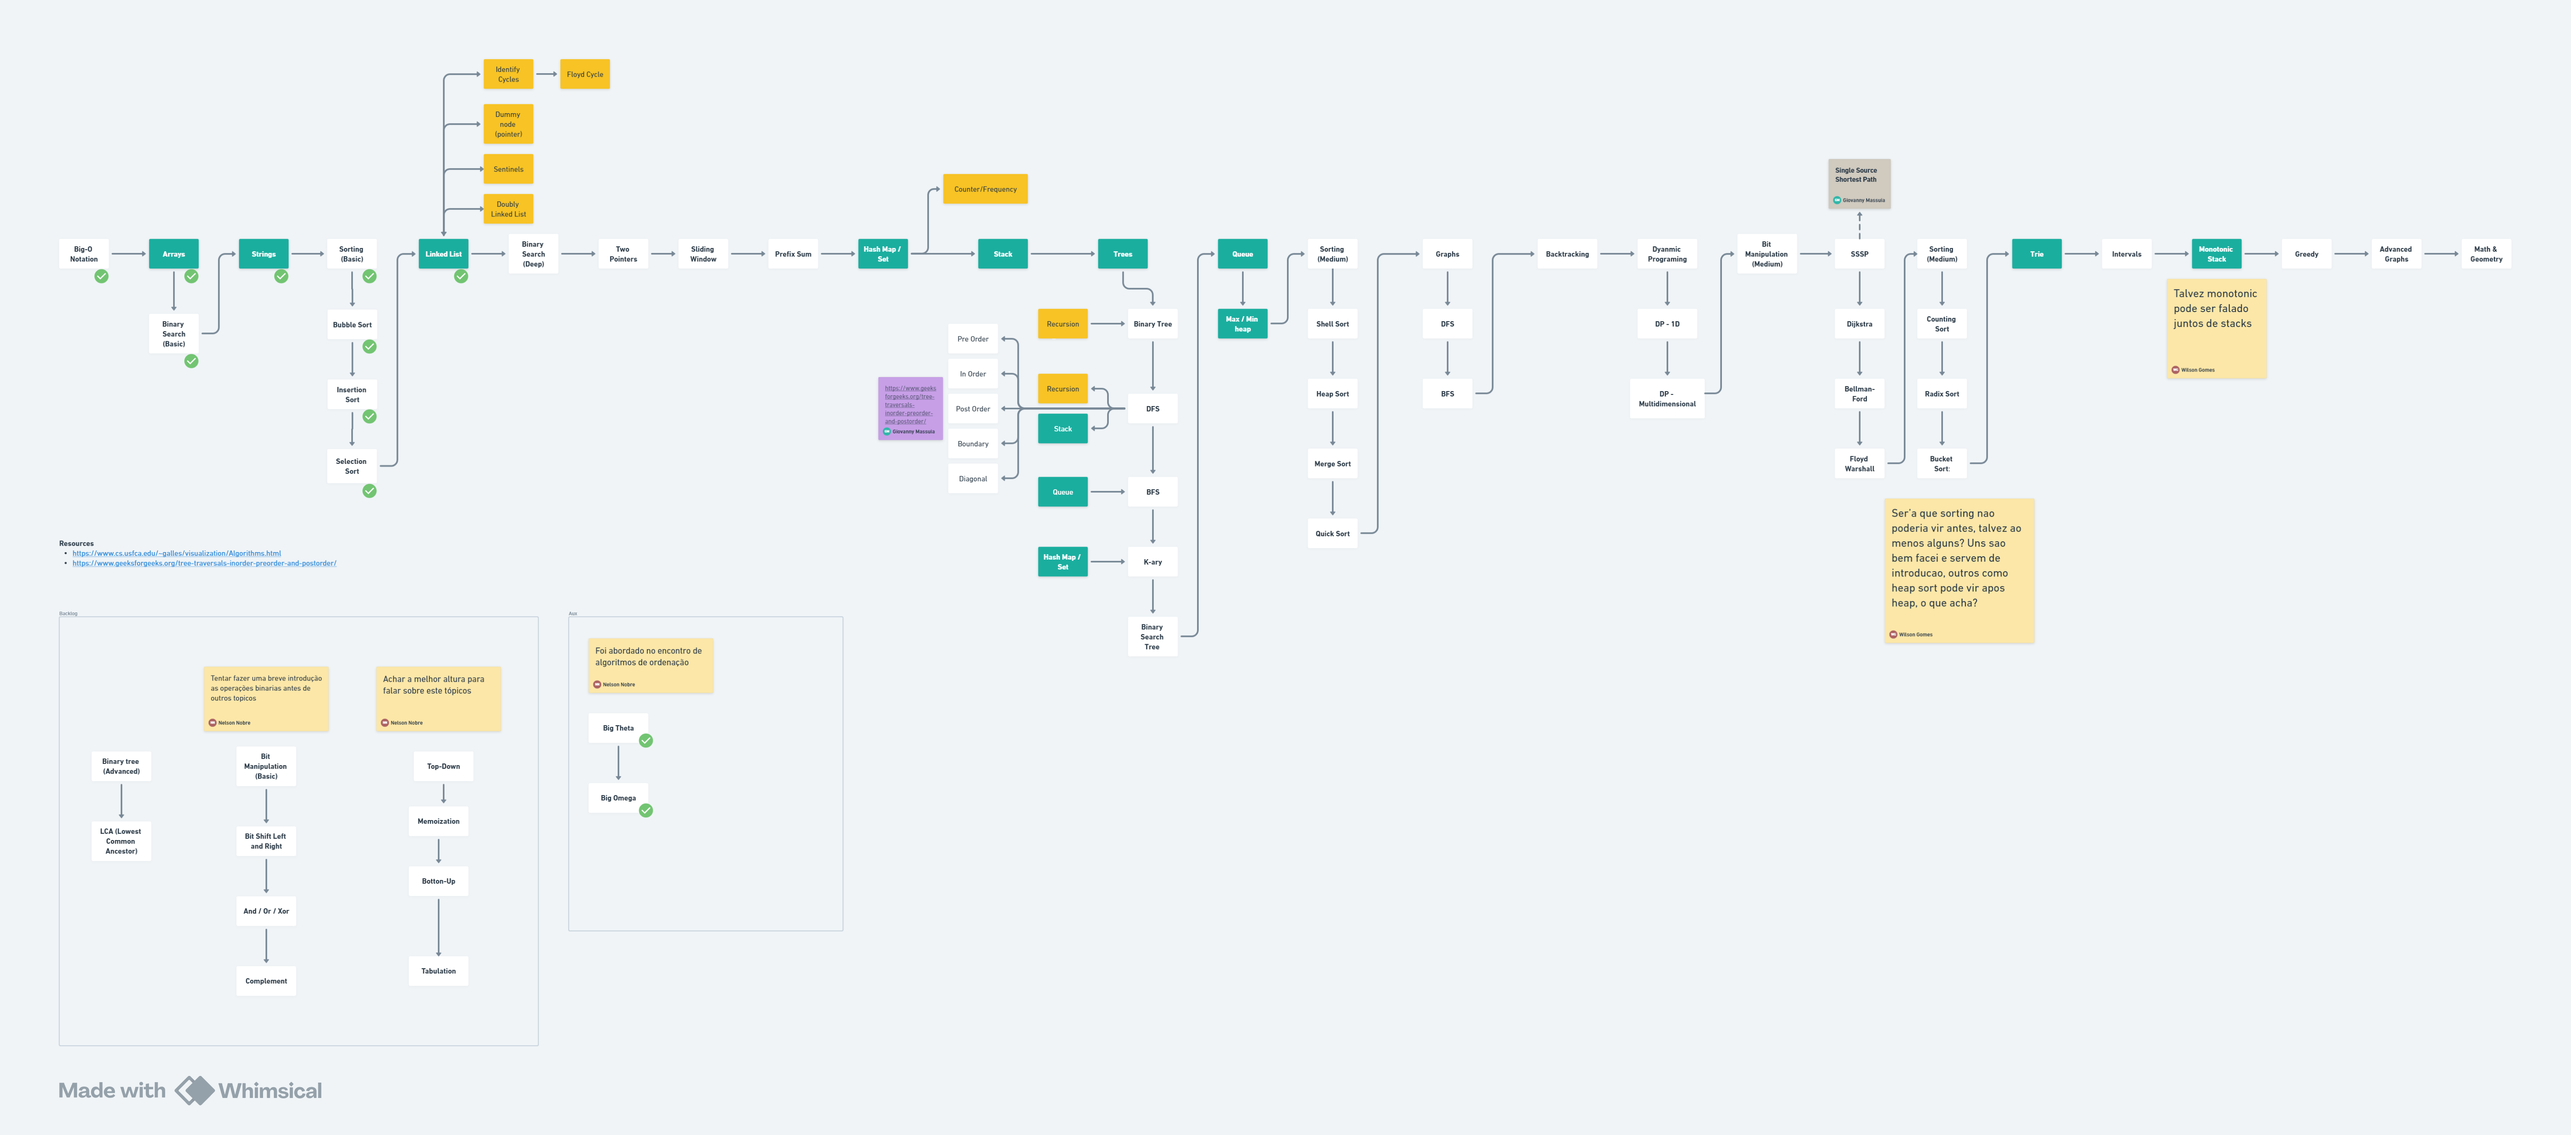
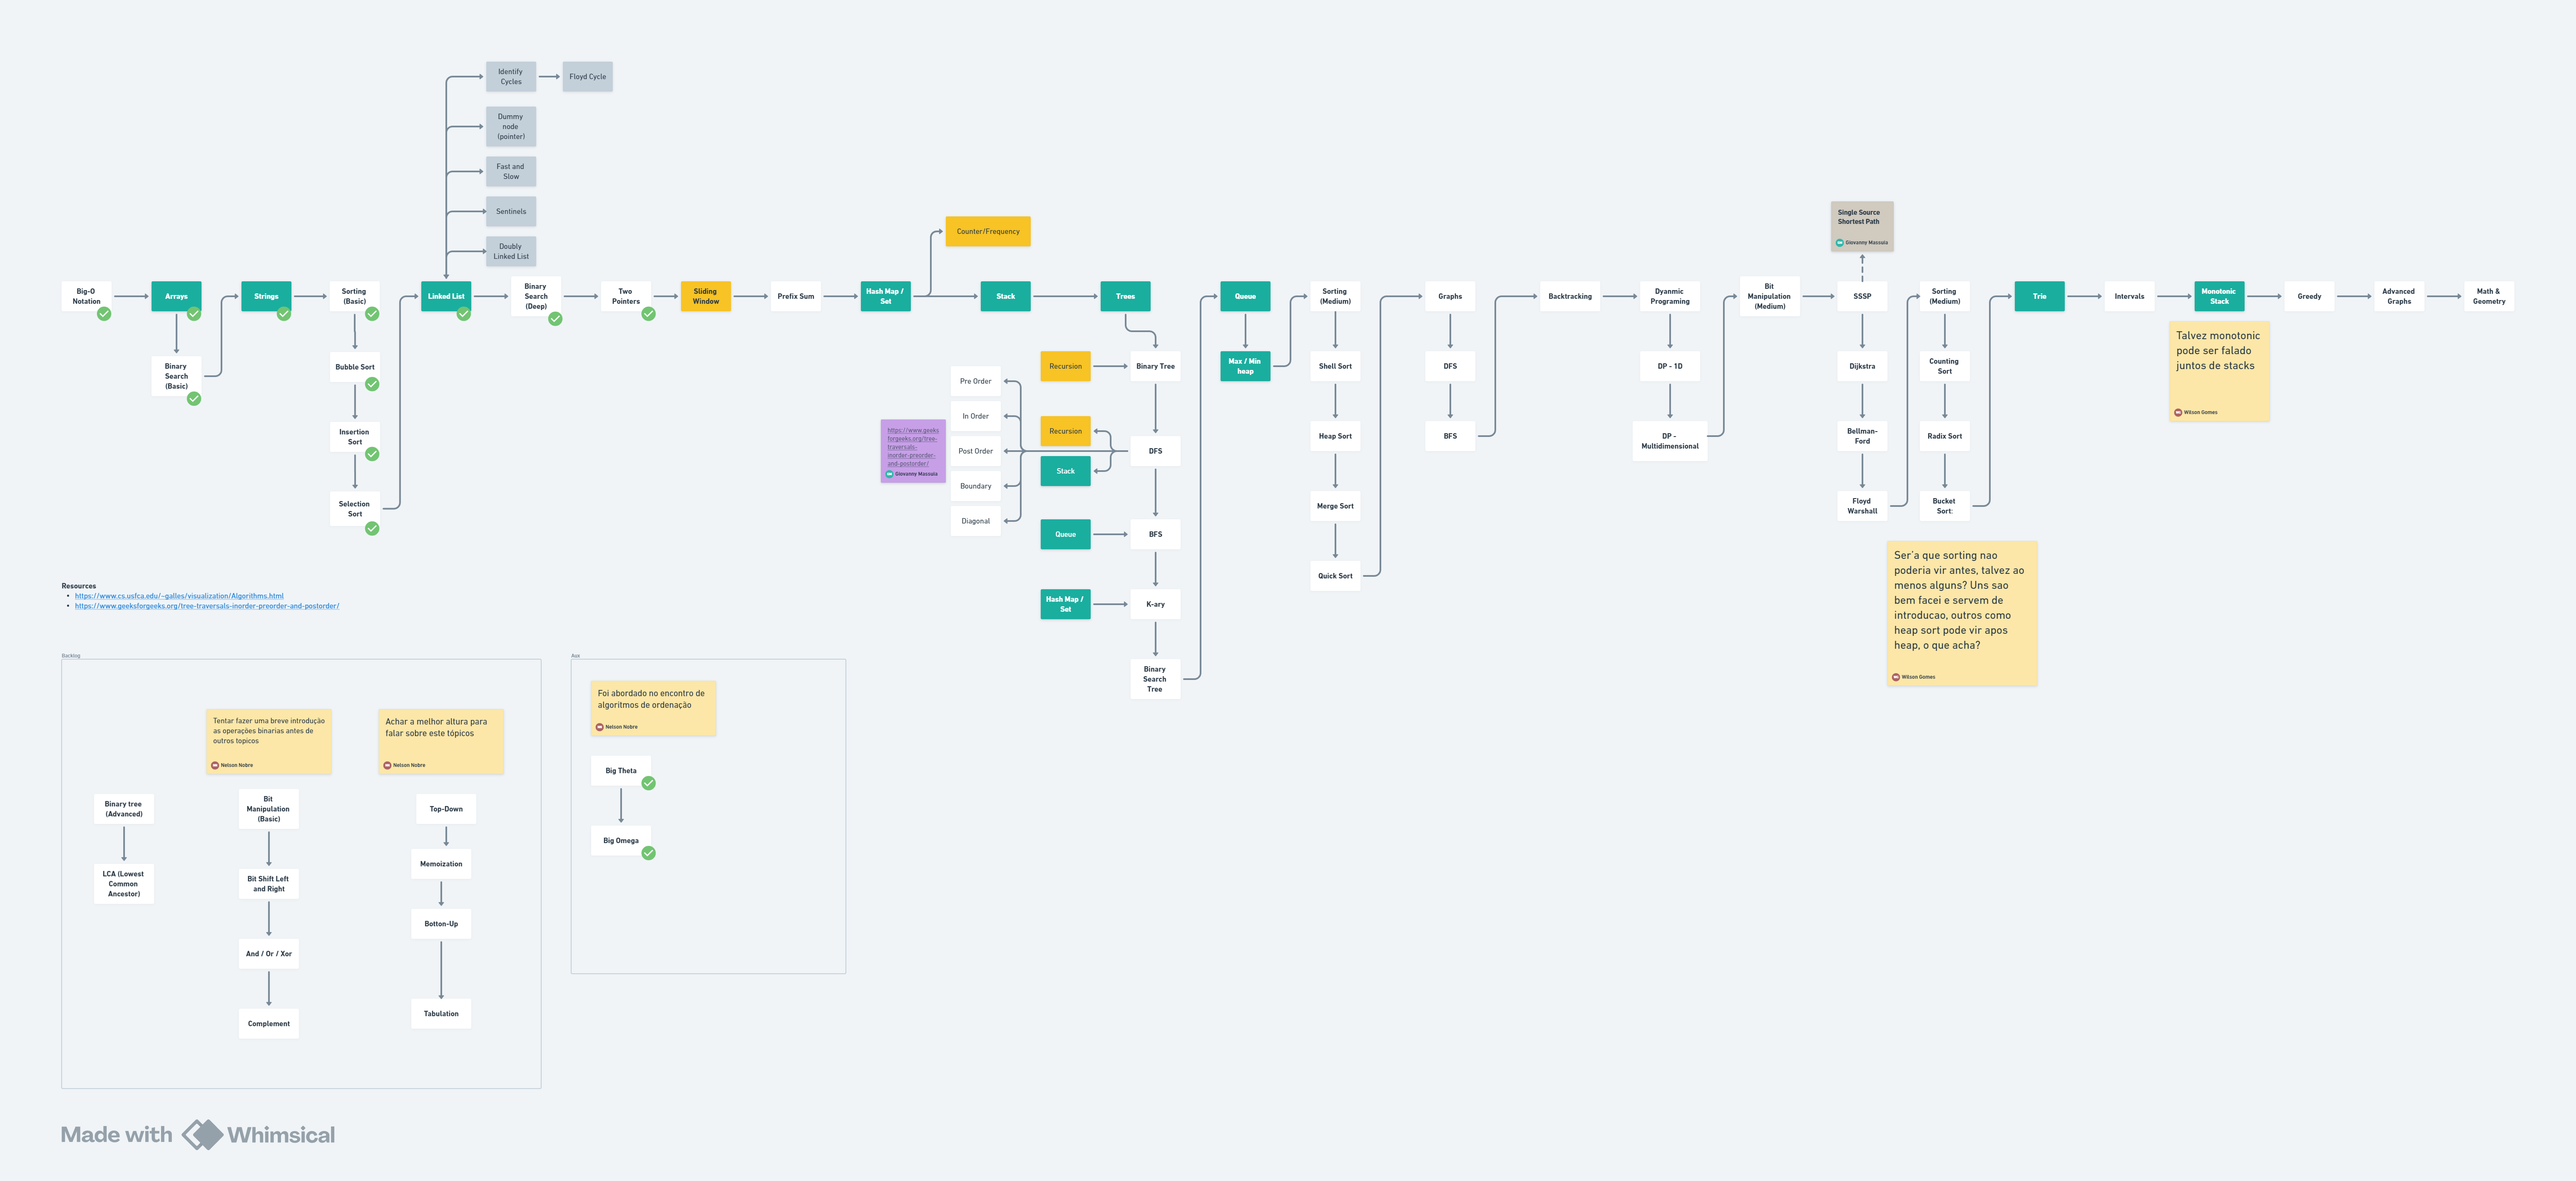
Update content

diff --git a/README.md b/README.md
@@ -24,7 +24,7 @@ Todas as contribuições são bem-vindas.
 
 ## Roadmap
 
-![Roadmap](./media/roadmap.png)
+![Roadmap](./media/Roadmap.png)
 [Preview Roadmap](https://whimsical.com/roadmap-BVA8gnSNM2D296qmrjwvY4)
 
 
@@ -35,14 +35,26 @@ Todas as contribuições são bem-vindas.
 - [x] **Strings**
   - [Youtube - Encontro](https://www.youtube.com/watch?v=B9CCEwjoXBk)
 - [x] **Algoritmos de Ordenação Básicos**
+  - Bubble Sort
+  - Insertion Sort
+  - Selection Sort
   - [Youtube - Encontro](https://www.youtube.com/watch?v=GxhxsbbzaTI)
 - [X] **Linked Lists**
+  - Singly Linked List
+  - Doubly Linked List
+  - Sentinels
+  - Dummy node (pointer)
+  - Fast and Slow Pointer
+  - Identify Cycles
+  - Floyd Cycle
   - [Youtube - Encontro](https://www.youtube.com/watch?v=j0E5hJZ__EA)
-- [ ] **Binary Search**
-- [ ] **Two Pointers**
+- [x] **Binary Search**
+  - [Youtube - Encontro](https://www.youtube.com/watch?v=62ZGcXDpbys)
+- [x] **Two Pointers**
 - [ ] **Sliding Window**
 - [ ] **Prefix Sum**
-- [ ] **...**
+- [ ] **Hash Map / Set**
+- [ ] **Stack**
 - [ ] **...**
 
 
